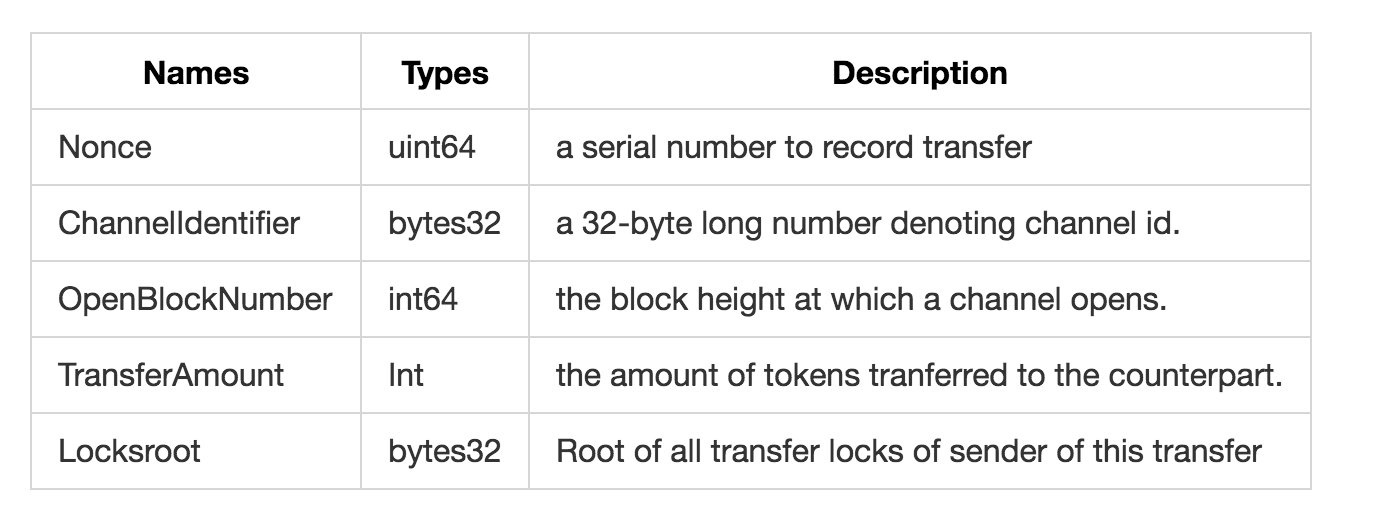
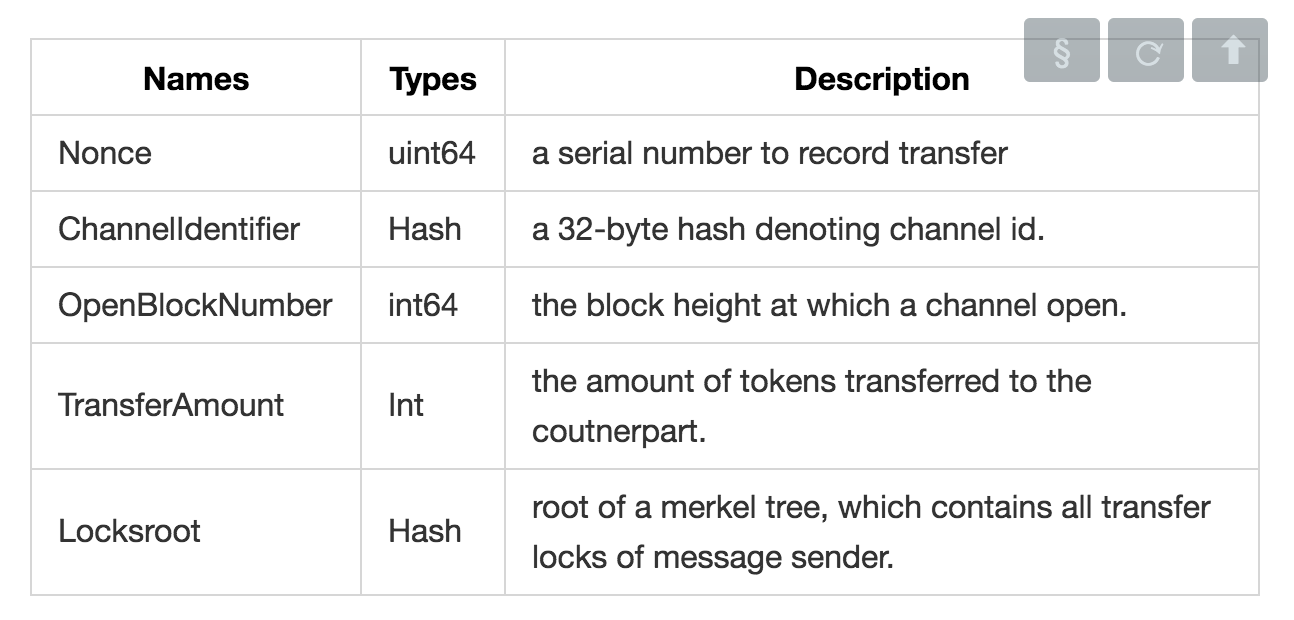
"Make some modifications for SmartRaiden Message Specification"

diff --git a/docs/SmartRaiden_Messages_Specification.md b/docs/SmartRaiden_Messages_Specification.md
@@ -1,5 +1,4 @@
 # SmartRaiden Messages Specification
-***
 ## Overview 
 This page primarily introduces SmartRaiden Messages, which is a bunch of data structures used in communication among our off-chain payment channels. Users or Clients can send and receive these messages to claim what they plan to do and present their intention to their transaction partners. 
 
@@ -10,66 +9,65 @@ BalanceProof is a basic data structure contained in every message that sent or r
 **Data Field** : 
 ![](./images/BalanceProof.png)
 
-###ACK 
+### SignedMessage
+SignedMessage is an underlying data structure almost contained in every message that sent or received by a channel participant. In this structure, we mainly put address of message sender and the signature of sender.
+
+![](./images/SignedMessage.png)
+
+### EnvelopMessage
+EnvelopMessage is an underlying data structure that contained in almost every message clients sent or received in a payment channel. In EnvelopMessage, there are a SignedMessage and a BalanceProof.
+
+![](./images/EnvelopMessage.png)
+
+## Messages
+### ACK 
 ACK is a data structure that our smartraiden messages uses to confirm certain message has been received. It just echoes hash value of that received message. 
 
 **Data Field** : 
 
 ![](./images/ACK.png)
-###Ping
-Ping is a data structure used to test the reachablity of a channel. In which, we just contain a nonce. 
+### Ping
+Ping is a message used to test the reachablity of a channel. In which, we just contain a nonce. 
 
 **Data Field** : 
 
 ![](./images/Ping.png)
 
-###SecretRequest
-SecretRequest is a data structure primarily used when one of participants in a payment channel want to get the secret of a transfer. In this case, he should send a `SecretRequest` to his channel counterpart and make his partner understand that he wishes to get the secret. 
+### SecretRequest
+SecretRequest is a message primarily used when a transfer recipient in a payment channel want to get the secret of a transfer. In this case, he should send a `SecretRequest` to the initiator of this transfer and make transfer initiator understand that he wishes to get the secret. 
 
 **Data Field** : 
 
 ![](./images/SecretRequest.png)
 
-###RevealSecret
-RevealSecret is used at the situation that one of participants in a payment channel, once he has received `SecretRequest` from his channel partner, reveals the secret of this transfer to his channel partner. 
+### RevealSecret
+RevealSecret is a message used at the situation that transfer initiator in a payment channel, once he has received `SecretRequest` from his assigned recipient of transfer, reveals the secret of this transfer to his transfer recipient. 
 
 **Data Field** : 
 
 ![](./images/RevealSecret.png)
 
-###Unlock
-Unlock is a data structure we adopt to deal with situations that a participant of a transfer plans to **unlock** the hash lock of this transfer. 
+### Unlock
+Unlock is a message we adopt to deal with situations that a participant of a transfer plans to **unlock** the hash lock of this transfer. 
 
-There are two cases for `Unlock` message :
-
-1. Unlock in DirectTransfer
-
-![](./images/Unlock_Direct.png)
-
-As we can see in DirectTransfer, there is a direct payment channel connecting Alice and Bob. The entire workflow is 
-- Once Bob has successfully received Alice's transfer, then he can request for secret of that transfer via `SecretRequest`. 
-- As to Alice, once she gets the message that Bob received her transfer safe and sound, certainly Alice will hand her secret to Bob via `RevealSecret`. 
-- If there is not any faulty issue occurred during secret transfer, we can guarantee that Bob is about to get the secret from Alice. 
-- After Bob received the secret and Alice has received an ACK of Bob, at that time, Alice sends `Unlock` to Bob. 
-
-2. Unlock in MediatedTransfer
+- Unlock in MediatedTransfer
 
 ![](./images/Unlock_Mediate.png)
 
-As we can view in this MediatedTransfer. We have three participants in this channel, Alice, Bob and Charles. The entire workflow is 
+As we can view in this MediatedTransfer. We have three participants in this channel, Alice, Bob and Charles. The entire workflow is 
 
 - After Charles has received the transfer from Alice, he wishes to get the secret via `SecretRequest` to Alice.
 - Once Alice receives this `SecretRequest`, if there is no problem, then without doubt, Alice will feed this secret to Charles, via `RevealSecret`. 
 - As to Charles, when he receives the secret from Alice, to get his deserved money, Charles prepares to reveal secret to his former hop node, Bob, via `RevealSecret`.
 - When Bob has received this secret, and after he'd completed verification, he has two choices : 
     - First, If Bob can make sure that Alice is an honest actor and will unlock those money locked in her BalanceProof, Bob immediately send an `Unlock` to Charles to unlock money. But This is not our case.
-    - Actually, Bob cannot rely on the virtue of integrity of Alice, so that he will first send a request to Alice to unlock his deserved money locked in Alice's BalanceProof. Once Alice has done that, Bob can ensure his money would not be lost, then he sends `Unlock` to Charles to release his lock. Finally, Charles is able to get those money.  
-
+    - Actually, Bob cannot rely on the virtue of integrity of Alice, so that he should make it certain that his money would not be stole by fraudulent actors. Our released version of SmartRaiden adds support that anyone who knows the secret can register this secret on the chain to claim their deserved fund. So Bob do not worry about his token, and he can directly unlock his transfer to Charles.
+    
 **Data Field** : 
 
 ![](./images/Unlock.png)
 
-###RemoveExpiredHashlockTransfer
+### RemoveExpiredHashlockTransfer
 RemoveExpiredHashlockTransfer is a kind of message and transfer participants primarily adopt it when ongoing transfers get expired for some reason, such as there are one or several mediated nodes disconnect from our token network, or some nodes intentionally stop furthering this transfer to next hop, and causes transfer expiration, etc. 
 
 
@@ -77,7 +75,7 @@ RemoveExpiredHashlockTransfer is a kind of message and transfer participants pri
 
 ![](./images/RemoveExpiredHashlockTransfer.png)
 
-###DirectTransfer
+### DirectTransfer
 DirectChannel is the message that mostly used in cases that a direct path exists to link two channel participants. Both just make their transfers sent to their channel counterparts via `DirectTransfer`. `DirectTransfer` can be sent by anyone in this direct payment channel in any times only if this direct channel is still open.
 
 Because in this case we only have two participants : transfer initiator and transfer recipient, so there is no need to lock transfers. 
@@ -86,47 +84,47 @@ Because in this case we only have two participants : transfer initiator and tran
 
 ![](./images/DirectTransfer.png)
 
-###MediatedTransfer
-MediatedTransfer is the message structure and it is adopted only in cases that a participant has no direct route linking to his transfer recipient. By no means, this participant need resort to other indirect routes so that he can feed his transfer to specific recipient.  
+### MediatedTransfer
+MediatedTransfer is the message and it is adopted mostly in cases that a participant has no direct route linking to his transfer recipient. But, in direct transfer, participants can also use `MediatedTransfer`. By no means, this participant need resort to other indirect routes so that he can feed his transfer to specific recipient.  
 
 **Data Field** : 
 
 ![](./images/MediatedTransfer.png)
 
-###AnnounceDisposed
+### AnnounceDisposed
 AnnounceDisposed is the message that we used in mediate transfer to notify that there are some issues which causes a mediated node has no way to further this transfer.
 
 **Data Field** : 
 
 ![](./images/AnnounceDiposed.png)
 
-###AnnounceDisposedResponse
+### AnnounceDisposedResponse
 AnnounceDisposedResponse is the message we used when a participant replies to his partner after he/she has received `AnnounceDisposedResponse`. 
 
 **Data Field** : 
 ![](./images/AnnounceDisposedResponse.png)
 
-###WithdrawRequest
+### WithdrawRequest
 WithdrawRequest is the message that mainly used in cases that a participant wishes to withdraw fund from his channel deposit. But first he needs to notify his partner about his intention and this intention needs to be confirmed by his partner.
 
 **Data Field** : 
 ![](./images/WithdrawRequest.png)
 
-###WithdrawResponse
+### WithdrawResponse
 WithdrawResponse is the message that recipient of `WithdrawRequest` has confirmed this message and he assigns his signature within and returns `WithdrawResponse`. 
 
 **Data Field** : 
 
 ![](./images/WithdrawResponse.png)
 
-###SettleRequest
+### SettleRequest
 SettleRequest is the message that channel participants adopt when they need CooperativeSettle that payment channel between them. Sender of this `SettleRequest` requests to cooperatively settle the channel. 
 
 **Data Field** : 
 
 ![](./images/SettleRequest.png)
 
-###SettleResponse
+### SettleResponse
 SettleResponse is the message that channel participants adopt when they just need to confirm the intention and agree with it. When recipient of `SettleRequest` wishes to present that he agrees to cooperatively settle this payment channel, then he just need to reply to his channel pal with this `SettleResponse`. 
 
 **Data Field** : 
